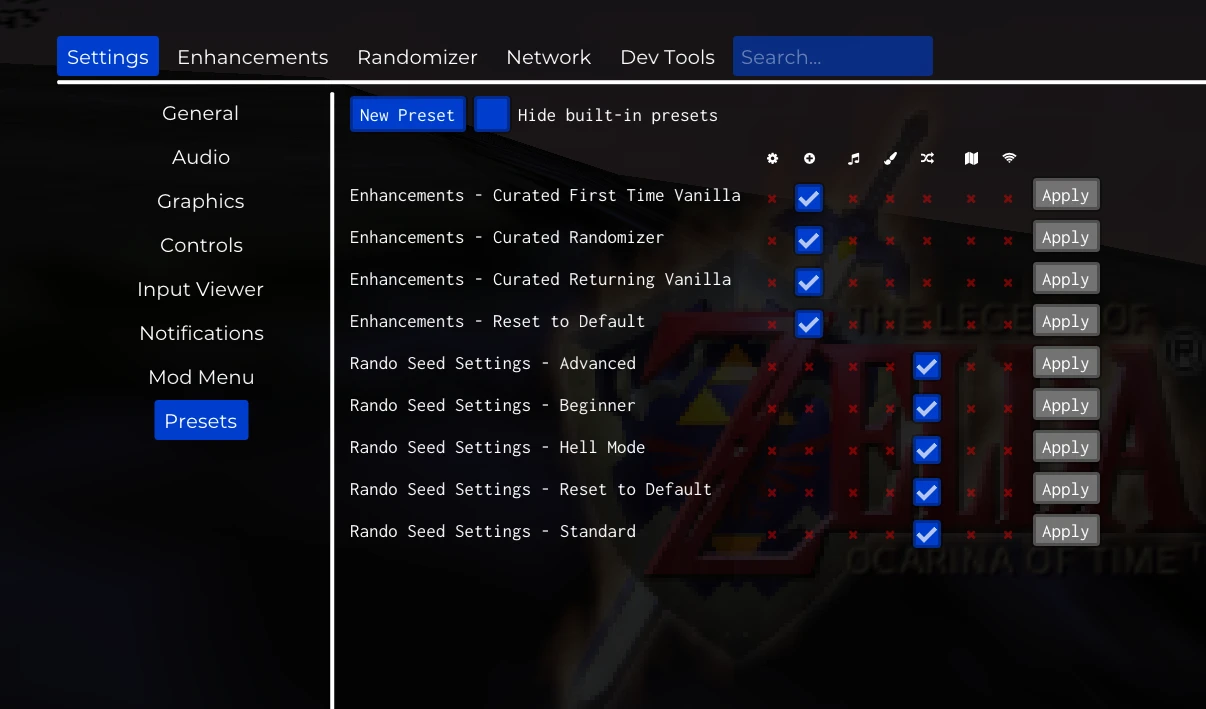
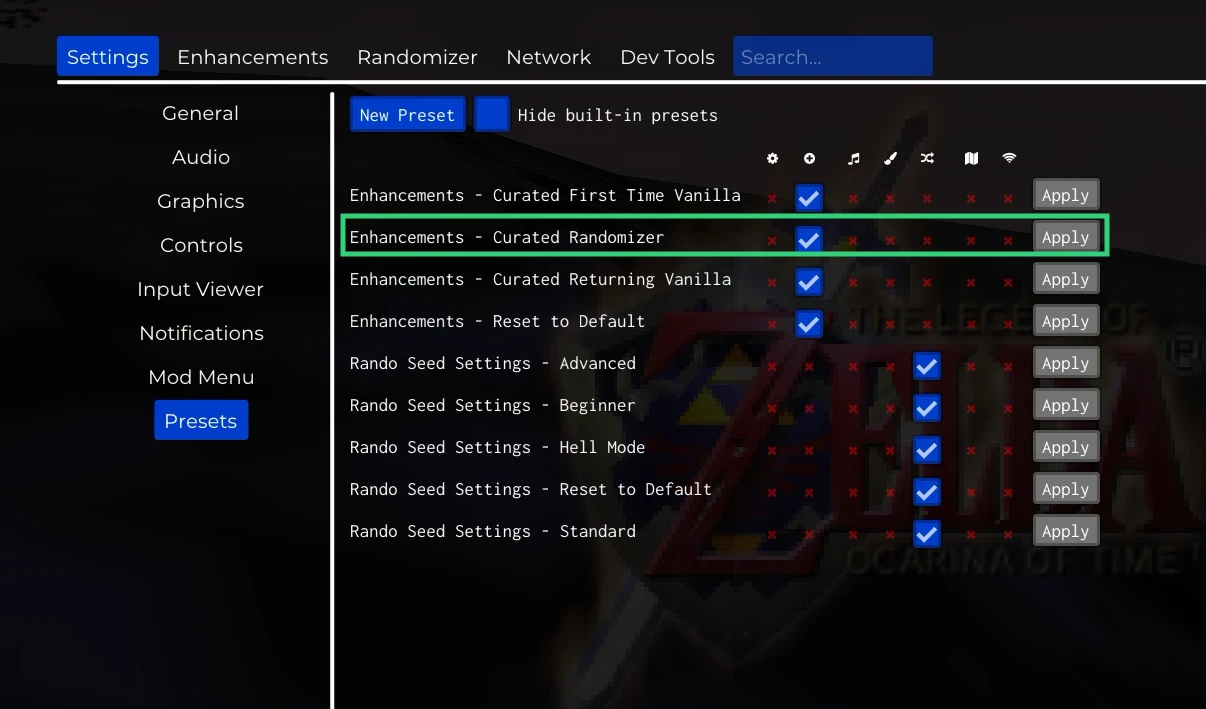
dontcare

Changed region(s): [[0.2761, 0.2793, 0.9204, 0.3724]]

diff --git a/join.html b/join.html
@@ -9,17 +9,17 @@
     <header>
         <h1>A Very Random Ocarina of Time Birthday Challenge</h1></p>
     </header>
-         <button type="button" class="collapsible"><h2>A Little Bit of Pre-Race Setup</h2></button>
+         <button type="button" class="collapsible"><h3 style="text-align: center;">IMPORTANT: Pre-Race Setup</h3></button>
         <div class="content">
-            <p>Just a quick thing before the race can begin.</p>
-            <div class="imageandtext"><p><strong>1.</strong> Run SoH and press Esc to bring up the menu<br><br><strong>2.</strong>Click on <strong>Settings</strong> then click on <strong>Presets</strong><br><br><strong>3.</strong>Look for <strong>Enhancements - Curated Randomizer</strong> and click on <strong>Apply</strong> next to it </p><img href="SettingsPresets.webp" src="SettingsPresets.webp"></div>
-        <p>NB: When you want to go back to playing the game normally I'd go back to this menu and apply <strong>Enhancements - Curated First Time Vanilla</strong> </p>
+            <p style="text-align: center;">Just a quick thing before the race can begin.</p>
+            <div class="imageandtext"><p><strong>1.</strong> Run SoH and press Esc to bring up the menu<br><br><strong>2.</strong>Click on <strong>Settings</strong> then click on <strong>Presets</strong><br><br><strong>3.</strong>Look for <strong>Enhancements - Curated Randomizer</strong> and click on <strong>Apply</strong> next to it </p><a href="SettingsPresets.webp"><img src="SettingsPresets.webp"></a></div>
+        <p style="text-align: center;">NB: When you want to go back to playing the game normally I'd go back to this menu and apply <strong>Enhancements - Curated First Time Vanilla</strong> </p>
         </div>
         <h2>Joining the Race</h2>
         <h3 style="color: #d9ff52;text-shadow: 1px 1px 2px black;">Please get your joining information from the <a href="teams.html">Teams page</a> first</h3>
-            <div class="imageandtext"><p><strong>1.</strong> Start SoH and select an empty file</p><img href="Archipelago1.webp" src="Archipelago1.webp"></div>
-            <div class="imageandtext"><p><strong>2.</strong> Select "Archipelago" as your quest</p><img href="Archipelago1.webp" src="Archipelago2.webp"></div>
-            <div class="imageandtext"><p><strong>3.</strong> Go to "Change Connection Info" and enter your Server Address and Slot Name in the appropriate places<br><br><strong>4.</strong>Close the "Archipelago Settings" window and hit "Connect and Start Archipelago"<br><br><strong>5.</strong>You should be Connected and start playing</p><img  href="Archipelago3.webp" src="Archipelago3.webp"></div>
+            <div class="imageandtext"><p><strong>1.</strong> Start SoH and select an empty file</p><a href="Archipelago1.webp"><img src="Archipelago1.webp"></a></div>
+            <div class="imageandtext"><p><strong>2.</strong> Select "Archipelago" as your quest</p><a href="Archipelago2.webp"><img src="Archipelago2.webp"></a></div>
+            <div class="imageandtext"><p><strong>3.</strong> Go to "Change Connection Info" and enter your Server Address and Slot Name in the appropriate places<br><br><strong>4.</strong>Close the "Archipelago Settings" window and hit "Connect and Start Archipelago"<br><br><strong>5.</strong>You should be Connected and start playing</p><a href="Archipelago3.webp"><img src="Archipelago3.webp"></a></div>
         <div id="sitelinks">
         <a href="index.html">THE CHALLENGE</a>
         <a href="installation.html">INSTALLING THE GAME</a>